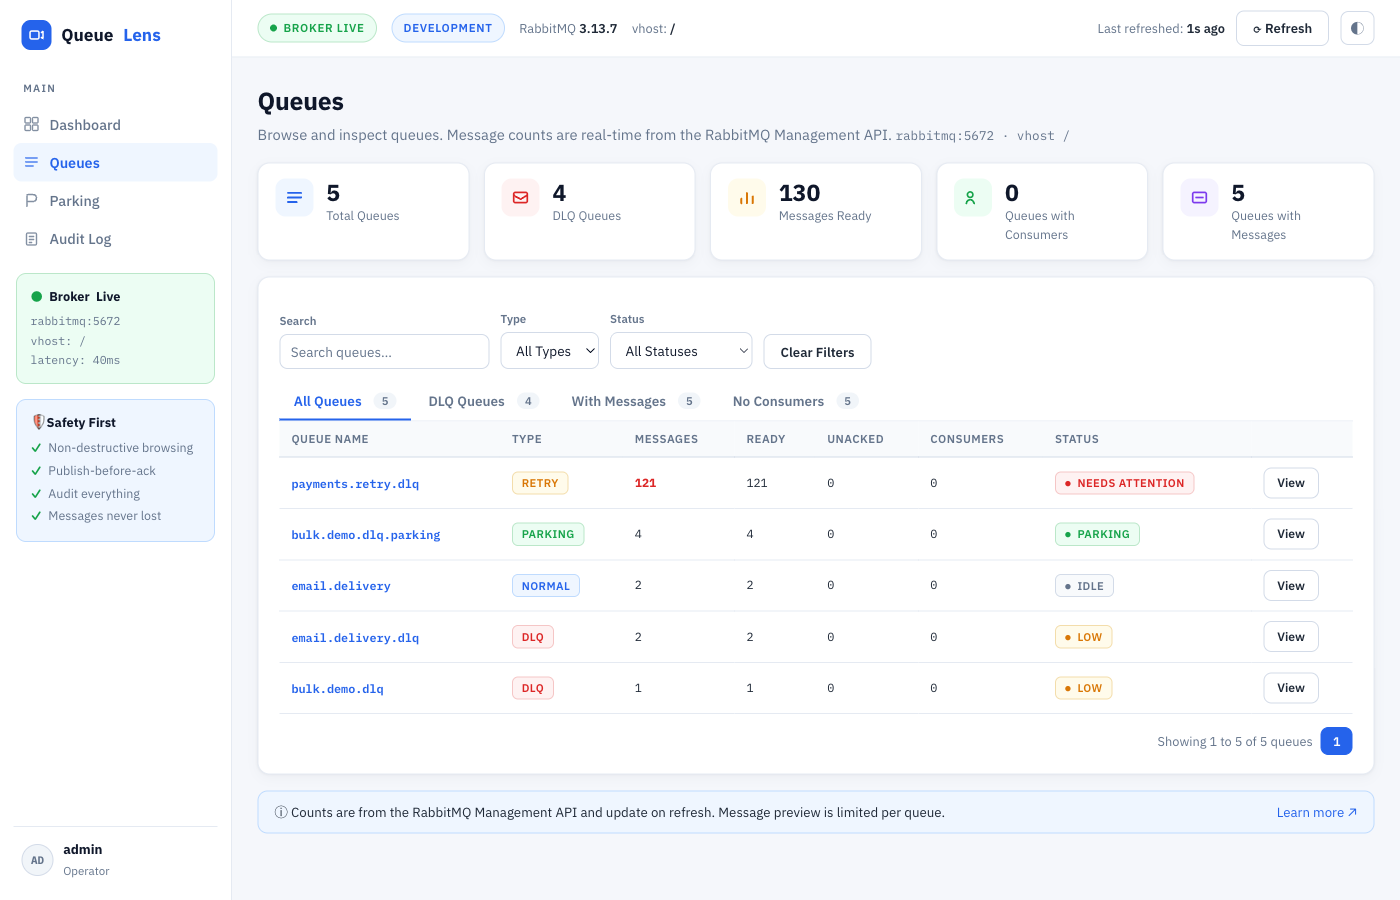
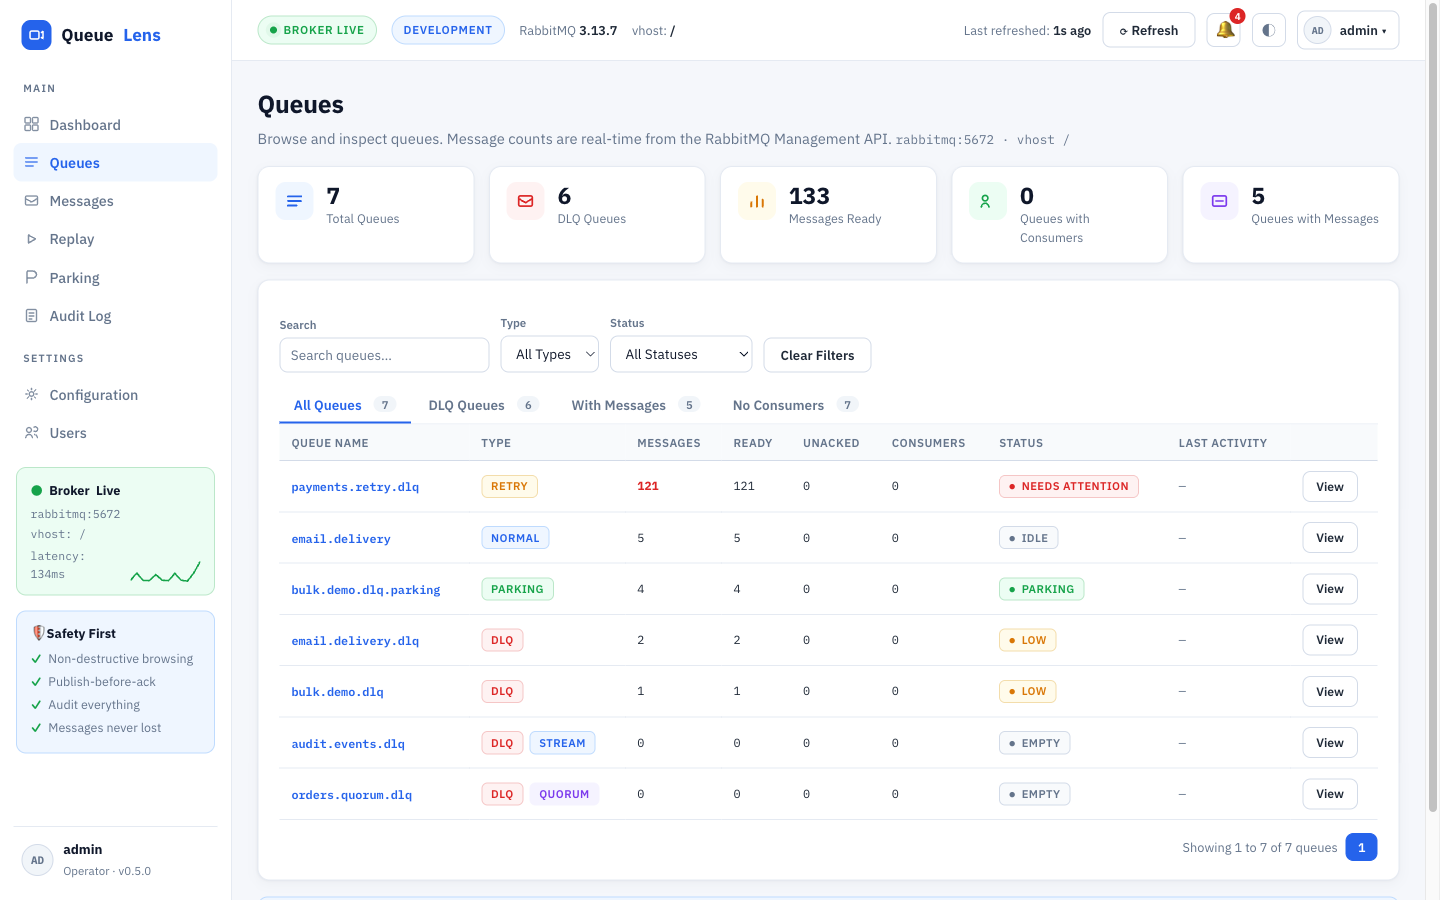
feat: surface RabbitMQ queue type (classic / quorum / stream)
Operators handle these differently — quorum queues have different
dead-lettering and requeue semantics, streams don't consume on read —
so the type is now visible wherever queues are listed:

- QueueInfo gains queue_type from the Management API type field with an
  x-queue-type argument fallback (classic when absent)
- /api/queues responses include queue_type
- Server console: badge next to the kind on the dashboard and Queues
  tables (quorum purple, stream blue; classic stays unbadged), plus a
  Queue Type stat on the messages page
- Design-kit SPA: same badge in the Queues screen via the data adapter

Verified live against quorum and stream queues on the real broker.

diff --git a/app/web/static/styles.css b/app/web/static/styles.css
@@ -832,3 +832,7 @@ input::placeholder { color: var(--muted); }
 .action-name.a-replay, .action-name.a-bulk_replay { color: var(--accent); }
 .action-name.a-park, .action-name.a-bulk_park { color: var(--purple); }
 .action-name.a-delete, .action-name.a-bulk_delete { color: var(--red); }
+
+/* RabbitMQ queue-type badges (classic is the default and stays unbadged) */
+.badge.qt-quorum { color: var(--purple); border-color: var(--purple-soft); background: var(--purple-soft); }
+.badge.qt-stream { color: var(--accent); border-color: var(--accent-line); background: var(--accent-soft); }

diff --git a/app/web/templates/dashboard.html b/app/web/templates/dashboard.html
@@ -40,7 +40,7 @@
   {% if queues %}
   <div class="table-wrap">
   <table><thead><tr><th>Queue</th><th>Type</th><th>Messages</th><th>Ready</th><th>Consumers</th><th>Status</th><th></th></tr></thead>
-  <tbody>{% for queue in queues %}<tr data-href="/queues/{{ queue.name | urlencode }}"><td><a href="/queues/{{ queue.name | urlencode }}" class="mono">{{ queue.name }}</a></td><td>{% if queue.kind == 'retry' %}<span class="badge k-dlq">DLQ</span> <span class="badge k-retry">retry</span>{% else %}<span class="badge k-{{ queue.kind }}">{{ queue.kind }}</span>{% endif %}</td><td class="mono"{% if queue.severity == 'attention' %} style="color: var(--red); font-weight: 700"{% endif %}>{{ queue.messages }}</td><td class="mono">{{ queue.messages_ready }}</td><td class="mono">{{ queue.consumers }}</td><td><span class="badge dot s-{{ queue.status }}">{{ {'attention': 'Needs Attention', 'warning': 'Warning', 'low': 'Low', 'empty': 'Empty', 'parking': 'Parking'}.get(queue.status, queue.status) }}</span></td><td><a class="button primary row-open" href="/queues/{{ queue.name | urlencode }}">Open ›</a></td></tr>{% endfor %}</tbody></table>
+  <tbody>{% for queue in queues %}<tr data-href="/queues/{{ queue.name | urlencode }}"><td><a href="/queues/{{ queue.name | urlencode }}" class="mono">{{ queue.name }}</a></td><td><span style="display: inline-flex; gap: 6px">{% if queue.kind == 'retry' %}<span class="badge k-dlq">DLQ</span> <span class="badge k-retry">retry</span>{% else %}<span class="badge k-{{ queue.kind }}">{{ queue.kind }}</span>{% endif %}{% if queue.queue_type != 'classic' %}<span class="badge qt-{{ queue.queue_type }}">{{ queue.queue_type }}</span>{% endif %}</span></td><td class="mono"{% if queue.severity == 'attention' %} style="color: var(--red); font-weight: 700"{% endif %}>{{ queue.messages }}</td><td class="mono">{{ queue.messages_ready }}</td><td class="mono">{{ queue.consumers }}</td><td><span class="badge dot s-{{ queue.status }}">{{ {'attention': 'Needs Attention', 'warning': 'Warning', 'low': 'Low', 'empty': 'Empty', 'parking': 'Parking'}.get(queue.status, queue.status) }}</span></td><td><a class="button primary row-open" href="/queues/{{ queue.name | urlencode }}">Open ›</a></td></tr>{% endfor %}</tbody></table>
   </div>
   <p class="muted small">Showing {{ queues | length }} of {{ queues | length }} DLQ queues</p>
   {% else %}

diff --git a/app/web/templates/queues.html b/app/web/templates/queues.html
@@ -54,7 +54,7 @@
       data-name="{{ queue.name }}" data-kind="{{ queue.kind }}" data-status="{{ queue.status }}"
       data-dlq="{{ 1 if queue.is_dlq else 0 }}" data-messages="{{ queue.messages }}" data-consumers="{{ queue.consumers }}">
     <td><a href="/queues/{{ queue.name | urlencode }}" class="mono">{{ queue.name }}</a></td>
-    <td><span class="badge k-{{ queue.kind }}">{{ queue.kind }}</span></td>
+    <td><span style="display: inline-flex; gap: 6px"><span class="badge k-{{ queue.kind }}">{{ queue.kind }}</span>{% if queue.queue_type != 'classic' %}<span class="badge qt-{{ queue.queue_type }}">{{ queue.queue_type }}</span>{% endif %}</span></td>
     <td class="mono"{% if queue.severity == 'attention' %} style="color: var(--red); font-weight: 700"{% endif %}>{{ queue.messages }}</td>
     <td class="mono">{{ queue.messages_ready }}</td>
     <td class="mono">{{ queue.messages_unacked }}</td>

diff --git a/app/web/static/ds/ui_kits/queuelens/Queues.jsx b/app/web/static/ds/ui_kits/queuelens/Queues.jsx
@@ -56,6 +56,7 @@
                 <span style={{ display: 'inline-flex', gap: 6 }}>
                   <Badge tone={TYPE_TONE[r.type]}>{r.type}</Badge>
                   {r.retry && <Badge tone="warning" uppercase={false}>retry</Badge>}
+                  {r.qtype && r.qtype !== 'classic' && <Badge tone={r.qtype === 'quorum' ? 'park' : 'info'} uppercase={false}>{r.qtype}</Badge>}
                 </span>) },
               { key: 'messages', label: 'Messages', render: (r) => <span style={{ fontWeight: 600, color: r.status === 'attention' ? 'var(--red-600)' : 'var(--slate-700)' }}>{r.messages}</span> },
               { key: 'ready', label: 'Ready' },

diff --git a/app/web/static/ds/ui_kits/queuelens/data.js b/app/web/static/ds/ui_kits/queuelens/data.js
@@ -68,6 +68,7 @@ window.QL = window.QL || {};
       name: q.name, type: type, messages: q.messages, ready: q.messages_ready,
       unacked: q.messages_unacked, consumers: q.consumers,
       status: STATUS_ALIAS[q.status] || q.status,
+      qtype: q.queue_type,
       last: q.idle_since ? rel(q.idle_since.replace(' ', 'T')) : '—',
     };
     if (q.kind === 'retry') row.retry = true;

diff --git a/app/web/templates/queue.html b/app/web/templates/queue.html
@@ -9,6 +9,7 @@
   <div><span>Total</span><b>{{ queue.messages }}</b></div>
   <div><span>Consumers</span><b>{{ queue.consumers }}</b></div>
   <div><span>Message Rate (in)</span><b>{{ (queue.publish_rate ~ '/s') if queue.publish_rate is not none else '—' }}</b></div>
+  <div><span>Queue Type</span><b>{{ queue.queue_type }}</b></div>
   <div><span>Durable</span><b>{{ 'yes' if queue.durable else 'no' }}</b></div>
   <div><span>Preview Limit</span><b>{{ messages | length }}</b></div>
 </div>

diff --git a/tests/test_queue_service.py b/tests/test_queue_service.py
@@ -89,3 +89,32 @@ async def test_source_queues_with_dlx_arguments_are_not_listed_as_dlqs() -> None
     await client.aclose()
 
     assert sorted(queue.name for queue in queues) == ["email.dlq", "orders.failed"]
+
+
[email redacted]
+async def test_queue_type_extracted_from_type_field_or_arguments() -> None:
+    async def handler(_request: httpx.Request) -> httpx.Response:
+        def queue(name: str, extra: dict) -> dict:
+            return {
+                "name": name, "vhost": "/", "messages": 0, "messages_ready": 0,
+                "messages_unacknowledged": 0, "consumers": 0, "durable": True,
+                "arguments": {}, **extra,
+            }
+
+        return httpx.Response(200, json=[
+            queue("orders.dlq", {"type": "quorum"}),
+            queue("audit.stream.dlq", {"arguments": {"x-queue-type": "stream"}}),
+            queue("legacy.dlq", {}),
+        ])
+
+    client = httpx.AsyncClient(
+        transport=httpx.MockTransport(handler), base_url="http://management.test"
+    )
+    management = RabbitMQManagementClient(settings(), client=client)
+    queues = await QueueService(management).list_queues()
+    await client.aclose()
+
+    by_name = {q.name: q.queue_type for q in queues}
+    assert by_name["orders.dlq"] == "quorum"
+    assert by_name["audit.stream.dlq"] == "stream"
+    assert by_name["legacy.dlq"] == "classic"

diff --git a/app/application/queue_service.py b/app/application/queue_service.py
@@ -49,6 +49,9 @@ class QueueService:
             arguments=arguments,
             is_dlq=is_dlq,
             kind=QueueService._classify(name) if is_dlq else "normal",
+            queue_type=str(
+                raw.get("type") or arguments.get("x-queue-type") or "classic"
+            ),
             publish_rate=(raw.get("message_stats") or {})
             .get("publish_details", {})
             .get("rate"),
@@ -110,6 +113,7 @@ def queues_to_dicts(queues: Sequence[QueueInfo]) -> list[dict[str, Any]]:
             "arguments": queue.arguments,
             "is_dlq": queue.is_dlq,
             "kind": queue.kind,
+            "queue_type": queue.queue_type,
             "severity": _severity(queue.messages),
             "status": _status(queue),
             "publish_rate": queue.publish_rate,

diff --git a/app/domain/models.py b/app/domain/models.py
@@ -15,6 +15,7 @@ class QueueInfo:
     arguments: dict[str, Any] = field(default_factory=dict)
     is_dlq: bool = False
     kind: str = "dlq"  # dlq | parking | retry | normal
+    queue_type: str = "classic"  # classic | quorum | stream
     publish_rate: float | None = None
     idle_since: str | None = None
 

diff --git a/docs/API.md b/docs/API.md
@@ -58,6 +58,9 @@ List queues in the configured vhost.
 }
 ```
 
+`queue_type` is the RabbitMQ queue type (`classic`, `quorum`, or `stream`), read from the
+Management API `type` field with an `x-queue-type` argument fallback.
+
 `is_dlq` is true when the name matches `.dlq` / `_dlq` / `dead`, or when another queue
 dead-letters into it via the default exchange.
 